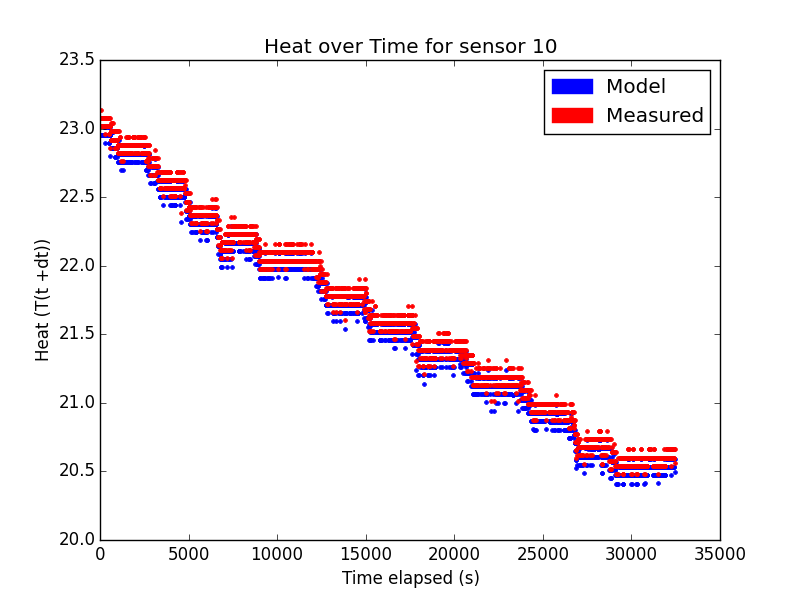
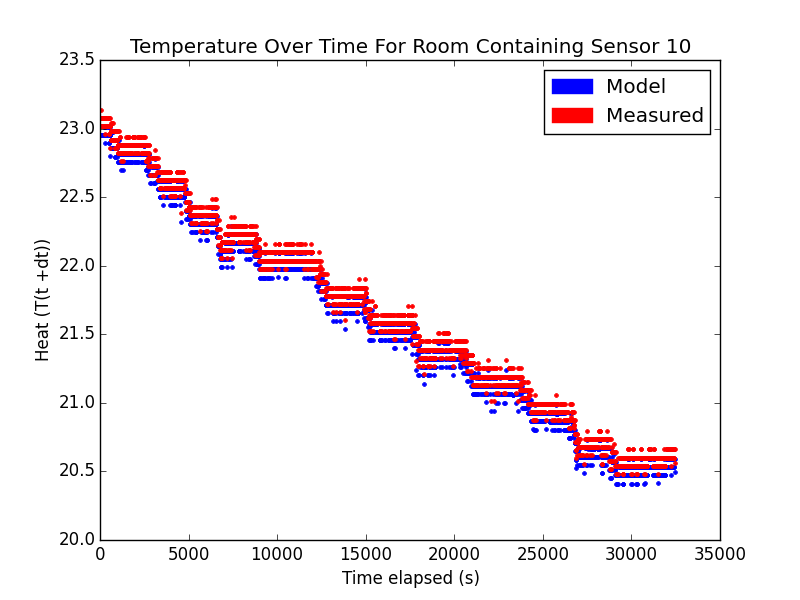
changed title of plots

Changed region(s): [[0.1562, 0.06, 0.875, 0.09]]

diff --git a/output.py b/output.py
@@ -48,5 +48,5 @@ def plot_model(room_num, time, calculated, actual):
     p.legend([model, measured], ['Model', 'Measured'])
     p.xlabel('Time elapsed (s)')
     p.ylabel('Heat (T(t +dt))')
-    p.title('Heat over Time for sensor ' + room_num)
+    p.title('Temperature Over Time For Room Containing Sensor ' + room_num)
     p.savefig('plot%s.png' % room_num)
